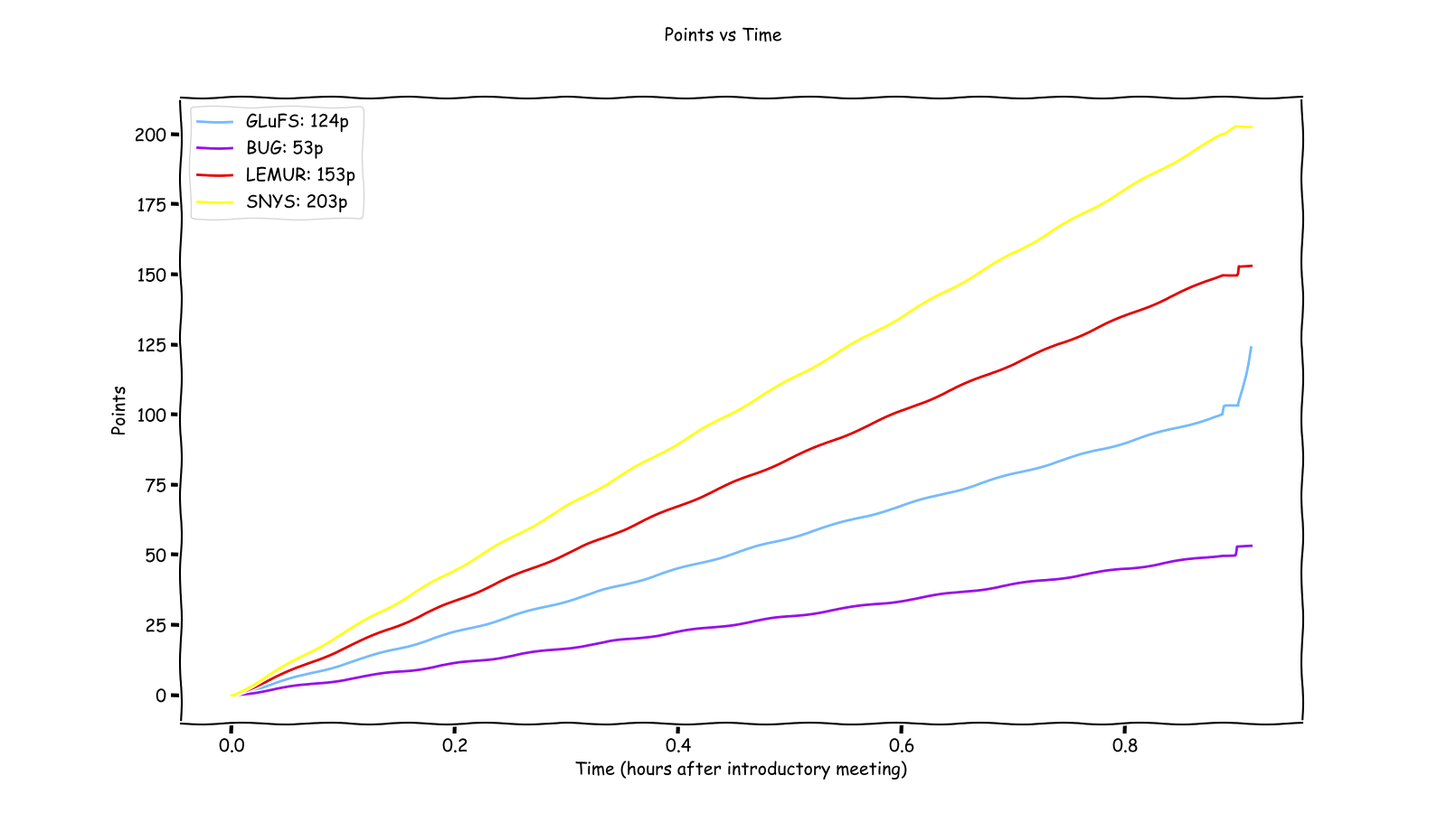
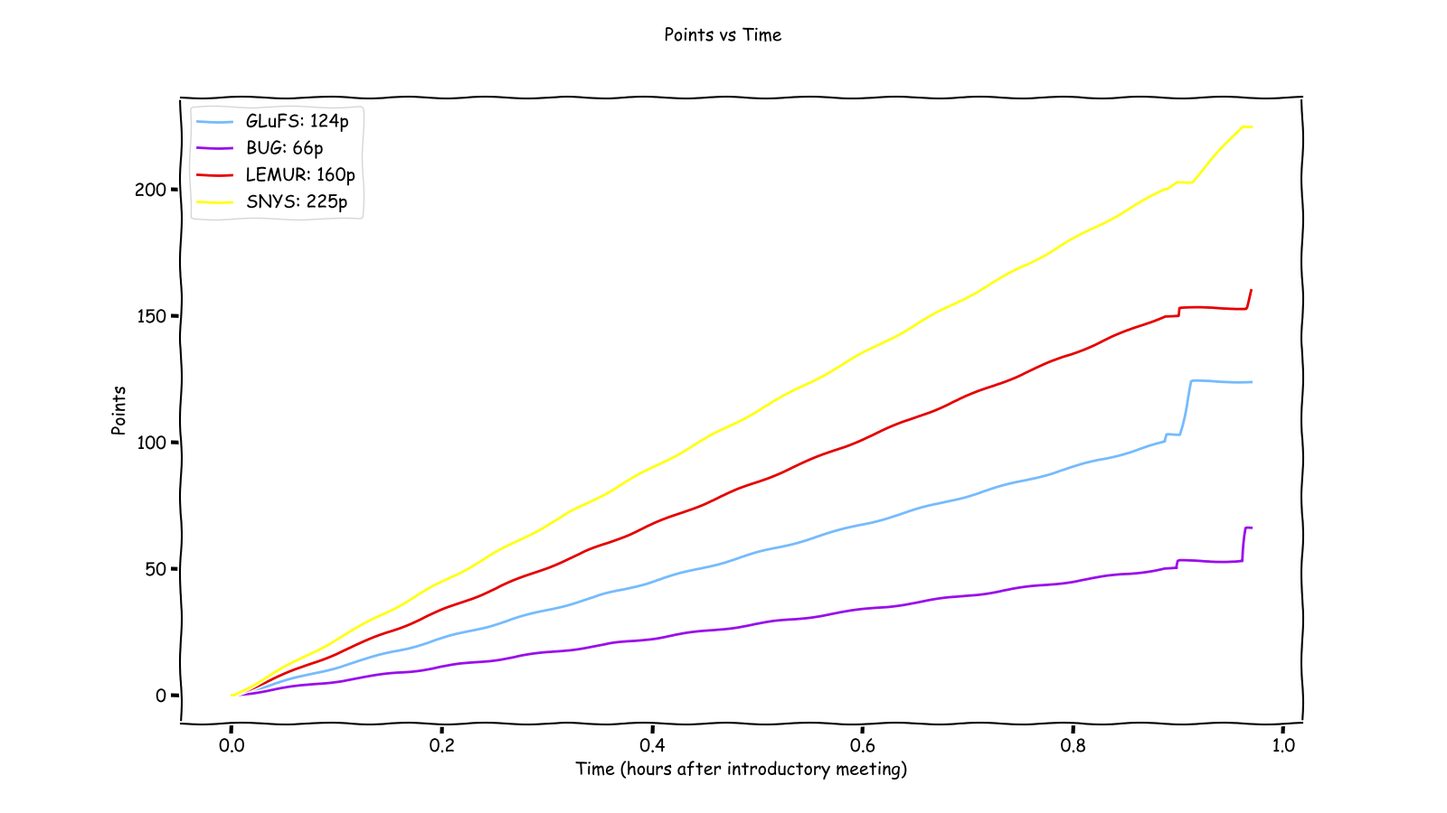
Auto-update: 2025-07-18 18:25

diff --git a/list.html b/list.html
@@ -1,1 +1,1 @@
-<p style="color: Black;"><strike>1: Juggle fruits! (3p per unique fruit) 1p</strike></p><p>2: Roll down a hill (1p per person)(3 hills max) 1p  ∞</p><p>3: Have a race up sankt hans backar (1p per person) 1p Performed by <span style="color: turquoise;"> GLuFS</p><p>4: Paint your nails in your student council colour (1p per person) 1p</p><p>5: "Recycle cans/bottles (panta) (1p for every 5th can  max points = 100) (Bonus when reaching max points )"p</p><p>6: Wear your lab coat to a lecture (1p per person) 1p  ∞</p><p>7: High Five with a pizza baker - (points for different pizza bakers) 2p  ∞</p><p>8: "Hug a counselor (kurator  nation or not) – (points after the number of counselors)"p</p><p>9: Bathe in a fountain - (points for different fountains) (Not Lundagård) 5p  ∞</p><p>10: Work out at the outdoor gym in winter clothing 5p</p><p>11: Perform a spex on Spexarevägen 5p</p><p>12: Bribe mentors with a cake 5p</p><p>13: Make posters for a non-existing course 5p</p><p>14: Be BFFs with a professor 5p</p><p>15: Take pictures of a student dormitory (points after how gross it looks) 5p</p><p>16: "If Finn exists  find Finn"p</p><p>17: Create a massive lab coat 5p</p><p>18: Fence with the bulls 5p</p><p>19: Forage for Potatoes 5p</p><p>20: Question middle school students about what is ''cool'' in school playgrounds in Lund today 5p</p><p>21: Build a human pyramid(1p per person) 1p</p><p>22: Sing a song to one of the full timers from the song book 5p</p><p>23: "Write ''Luna'' with new students  score after the size"p</p><p>24: Bug with a BUG. (Can not be performed by BUG) 5p</p><p>25: Pherform ''Physical'' physically with a physicist. (Can not be performed by GLuFS) 5p</p><p>26: Summon a demon with Lemur.. (Can not be performed by LEMUR) 5p</p><p>27: Bury a Gnome (as long as they get air). (Can not be performed by GNOMES) 5p</p><p>28: Adopt a pet rock 5p</p><p>29: Go sledding down Sölvegatan (Fysicum to Kalmar Nation) 5p</p><p>30: Obtain a saber (sabel) and acquire a horse 5p</p><p>31: Find the mountain troll at Trollebergsvägen 5p</p><p>32: Roundabout Rave! 5p</p><p>33: The cake is a lie! 5p</p><p>34: Borrow a weird book at UB 5p</p><p>35: Find a spanish bear 5p</p><p>36: Help a lady across the street 5p</p><p>37: Go where pepper grows 5p</p><p>38: Stand statue in the city park 5p</p><p>39: Skip rope with a giraffe 5p</p><p>40: Make a suuuuuper looooong (jäääääääääättelång) spoon 5p</p><p>41: "Play ''rock  paperp</p><p>42: "Solve a math problem(high difficulty!!)  in a sandbox"p</p><p>43: Play a kids show anthem on glass bottles 5p</p><p>44: Make a somersault to get inside Wermlands nation 5p</p><p>45: Prove that the high ground is superior 5p</p><p>46: Order a Royal with cheese 5p</p><p>47: Become a shooting star 5p</p><p>48: Find an old member of the Mentor Committee (GoDs) 5p</p><p>49: Perform photoception (the more the better) 5p</p><p>50: Pet cute cats 5p</p><p>51: Preach about the ”Santa religion” at Stortorget 5p</p><p>52: Eat tuna at Tunavägen 5p</p><p>53: Create a beautiful painting at Målarevägen 5p</p><p>54: Hang up your own painting in a museum 5p</p><p>55: Bake LUNA buns 5p</p><p>56: Find the building that changes colour 5p</p><p>57: Find the Student Health Centre (you don't have to book an appointment and don't bring the mascot inside) 5p</p><p>58: "Dance ringdance in Stortorget  Mårtenstorget and Clemenstorget! (Preferably simultaneously)"p</p><p>59: Consume sugar outside the sugar mill 5p</p><p>60: Drink the red drink from Shell (or Circle K) 5p</p><p>61: "Burn red houses  hit little children and say bad words (Notep</p><p>62: "Explore the faculty  find all student council rooms!"p</p><p>63: What is Jack Stauber really saying in Buttercup? 5p</p><p>64: Eat forbidden fruit in paradise 5p</p><p>65: Hold the door 5p</p><p>66: Spell out your team's name with new students 5p</p><p>67: Capture a Pokemon Gym with a Pokemon with your team's name 5p</p><p>68: Down raspberry soda in Halland hall. (Halsa hallonsoda i Hallands hall) 5p</p><p>69: Go super Saiyan!!! (extra points for high power levels) 5p</p><p>70: iGWqyYLerA+VcCk+7myGRkafucLrXdhcps9/YPg7uw1ycBJozbB9ndW9pvCTz623V84et6jDkAjfV9VGQTkj+Q== 5p</p><p>71: Stay the night at a nation dormitory - (score after the number of different nations) 5p  ∞</p><p>72: Show Lasse your best impression of Poseidon in Göteborg 5p</p><p>73: Write a poem about Maites cat with his full name in it 5p</p><p>74: Give Nea the best vegetarian protein money can buy 5p</p><p>75:  5p</p><p>76:  5p</p><p>77:  5p</p><p>78: "Sing karaoke with the safety person (the song has to have the word ""safe"" in it!)" 5p</p><p>79: Do a tiktok dance to TiK ToK in front of a clock 5p</p><p>80: Offer someone an egg in this trying time 5p</p><p>81: Find true love 5p</p><p>82: Spot a cryptid 5p</p><p>83: Badly describe your favourite movie 5p</p><p>84: "Be an adventurer  and then take an arrow to the knee"p</p><p>85: Chubby bunny with something other than marshmellows 5p</p><p>86: Assemble the avengers 5p</p><p>87: Interpret your horoscope literally for a day 5p</p><p>88: Convince a stranger that today is Friday (Can't be done on a Friday) 5p</p><p>89: Become a Disney princess 5p</p><p>90: Show off the best party trick 5p</p><p>91: Have an incredible dance-off 5p</p><p>92: "Say the longest  most complicated tounge twister as fast as possible"p</p><p>93: Find something forgotten 5p</p><p>94: Serenade a stranger 5p</p><p>95: Celebrate a national day from nationaltoday.com 5p</p><p>96: Draw the chemical structure of Maiotoxin on a blackboard 5p</p><p>97: Discover a new element 5p</p><p>98: Take a selfie with the other teams mascot (no stealing!) 5p</p><p>99: Trade up 5p</p><p>100: Draw fanart of your mentors 5p</p><p>101: Show us how you would react when something is ”orimligt” 5p</p><p>102: Do something mediocre 5p</p><p>103: Dance battle a dinosaur 5p</p><p>104: Make us go ugh/eww/wow 5p</p><p>105: Do a conga line in the stadspark 5p</p><p>106: Eat the domkyrka 5p</p><p>107: Kiss a kub kung 5p</p><p>108: Eat the best lunda falafel 5p</p><p>109: Stand on two hands and sing your student council chant 5p</p><p>110: Put some lipstick on a statue / pimp a statue 5p</p><p>111: Find your student council room and make a cup of tea 5p</p><p>112: Take a selfie with the LUNA president 5p</p><p>113: Take a selfie with the LUNA vice president 5p</p><p>114: Take a selfie with the LUNA HCR 5p</p><p>115: Make up a sport and get outsiders to participate and compete. (At least 3 people must attend) 10p</p><p>116: Raise your team's flag in a flagpole - (points for various flagpoles) 10p  ∞</p><p>117: "Bring your mascot to the lecture  it needs one!"p</p><p>118: Eat brunch at the lecture 10p</p><p>119: Travel back to the future 10p</p><p>120: Explore the Underworld (Say hi to Hades) 10p</p><p>121: Explore Heaven (Say hi to Zeus) 10p</p><p>122: Find one from Gotland. (Has to be proven. Can't be part of your team!) 10p</p><p>123: Organise a flash mob 10p</p><p>124: Re-Construct the game show ''Hur gör djur?'' 10p</p><p>125: Take a selfie with your flag + mascot in front of a student nation! (Score after the number of nations) 10p  ∞</p><p>126: Reform the legendary bird army 10p</p><p>127: Film a 30 second promotional video for a course together with a lecturer 10p</p><p>128: HARDCORE PARKOUR! 10p</p><p>129: Snorkel in the fountain. (Score after the number of fountains) (Not Lundagård) 10p  ∞</p><p>130: Play a game with other student councils 10p</p><p>131: Build something related your theme in LEGO 10p</p><p>132: Have a super fancy dinner in a park 10p</p><p>133: Submit a fan mail to a lesser known artist. (Must answer in order to get points.) 10p</p><p>134: Synchronized berry picking as sport 10p</p><p>135: Find the most inventive way to use a potato 10p</p><p>136: Create and perform the ”Novischdance” 10p</p><p>137: Make a round pizza box with a square pizza in it 10p</p><p>138: Where is the country where you bend the bananas? 10p</p><p>139: Find a valid train from Lund to the eternal leader's country 10p</p><p>140: Wear formal wear during a lecture 10p</p><p>141: Bring back dabbing 10p</p><p>142: Arrange a medieval jousting tournament on Tornavägen 10p</p><p>143: Create a Voi-squad (at least 4 people) 10p</p><p>144: Fight fire with fire 10p</p><p>145: Develop all four elements 10p</p><p>146: Find something in Lake-lake and sell it 10p</p><p>147: Sell lemonade to a duck (do not harm ducks!) 10p</p><p>148: Make a sacrifice to Anders And 10p</p><p>149: Oh no! The boat is sinking and the rations are getting soaked! What should you do? 10p</p><p>150: Perform a psychological experiment (on a psychology student) 10p</p><p>151: Find a philosopher and bombard them with all sorts of paradoxes until they intend to engage in violence on you personally 10p</p><p>152: Hold a lecture at EC 10p</p><p>153: Wear all 6 different kinds of lab coats at once 10p</p><p>154: Does Uppsala exist? 10p</p><p>155: Hang a (large) student council-poster on the outside of the castle 10p</p><p>156: Perform ''Härjarevisan'' to an audience not from Lund 10p</p><p>157: Play chess with death at SOL 10p</p><p>158: Have sing-together in a supermarket! (Get at least 5 non-members to sing) 10p</p><p>159: Take the trolley through the Drive Through at McDonalds 10p</p><p>160: Find someone called Knut and tie him to Knut ''den stores torg'' 10p</p><p>161: Create a petition to banish a harmless substance (minimum 30 signatures) 10p</p><p>162: Rename ''Systembolaget'' to ''Spritbolaget'' 10p</p><p>163: Yodel in a store 10p</p><p>164: Play a known scene from a drama to the public 10p</p><p>165: Equip the world with hipster glasses 10p</p><p>166: Make a Pan Galactic Gargle Blaster 10p</p><p>167: Fight the pollen!  10p</p><p>168: Rant for 5 minutes about something completely meaningless 10p</p><p>169: Make a trailer film for your student council(s). (At least 2 minutes) 10p</p><p>170: Have song duel with another team at Sjön Sjön (both teams will get points) 10p</p><p>171: Stay the night outside the lecture hall (OBS! Not inside a university building) 10p</p><p>172: Build any university building from lollipops 10p</p><p>173: Assassinate the LUNA president/ vice president during office hours 10p</p><p>174: Re-create a historical process with your lecturer 10p</p><p>175: Be a youtube celebrity (minimum 302 views) must be from the novisch period 10p</p><p>176: Run a Marathon-race 10p</p><p>177: Recreate a Disney movie in 30 seconds 10p</p><p>178: Take the subway between the Maths building and the Maths Annex (There is an actual tunnel going between the two buildings that you have to find) 10p</p><p>179: Have a sittning sittning (amount studentity* rewarded) * (student identity - a way of measuring how much of a student you are) 10p</p><p>180: "With one foot in Småland (Please note  not the nationp</p><p>181: Accelerate by the accelerator 10p</p><p>182: Perform Lunas Anthem 10p</p><p>183: Successfully host a Geologist Agility Contest (Rock Agility) 10p</p><p>184: Find a way to bring the witches back from Blåkulla 10p</p><p>185: Stand quarter past at the ”quarter-past-meridian” 10p</p><p>186: Discover the secrets of Area 51 10p</p><p>187: Give FU Dijon mustard 10p</p><p>188: Become an influencer 10p</p><p>189: Scientifically prove a conspiracy theory 10p</p><p>190: Hold a powerpoint presentation about your very unusual thesis 10p</p><p>191: Get your team to the top ten most liked pictures with #studyingscienceinlund on instagram 10p</p><p>192: "Eat a banana at bananparken  a pear at päronvägens lekplatsp</p><p>193: Find the infinity stones and make all things as they should be 10p</p><p>194: Write a love letter to LUNA 10p</p><p>195: Have an elevator picnic! 10p</p><p>196: Drive the alligators out of Skåne 10p</p><p>197: Find a GoD and give them cheese 10p</p><p>198: "Recreate the ""running through doors"" scenes from Scooby-Doo" 10p</p><p>199: "Dance ""små grodorna"" around strangers" 10p</p><p>200: "Go to the ""spritbolag"" with a fake beard" 10p</p><p>201: Make a wanted poster of someone in FU 10p  ∞</p><p>202: Make propaganda posters for your student council 10p</p><p>203: Wear an ice cream like a hat 10p</p><p>204: Battle your mentors in bear pong 10p</p><p>205: Make a song about LUNA or FU and sing it at the Central station 10p</p><p>206: Celebrate someone's birthday at a sittning or event 10p</p><p>207: Make the dark night rise 10p</p><p>208: Take a picture in a fountain like friends 10p</p><p>209: Sing stad i ljus at a club 10p</p><p>210: Take a picture with all the fulltimers in the same picture 10p</p><p>211: Create sculptures of the generals  15p</p><p>212: Travel abroad with the Skåne flag (bonus points if it is not Denmark) 15p</p><p>213: Create and host a DnD adventure with LUNA as a main part of it 15p</p><p>214: Become a meme 15p</p><p>215: Flip a coin forever 15p</p><p>216: Break the 4th wall 15p</p><p>217: "Walk along the tram track from Lund C to ESS (each stop is required) (not ON the track  stay safe)"p</p><p>218: Give a board to every member of the LUNA board (points only if you find them all) 15p</p><p>219: Make an (alcohol free) drink worthy of FU 15p</p><p>220: Perform miracles 15p</p><p>221: Publish a scientific article during the novisch period 15p</p><p>222: Freshen up Lake-lake 15p</p><p>223: "Ask a scientific question to a relevant faculty employee  that you can solvep</p><p>224: Meow in front of the vice-dean 15p</p><p>225: Create a tradition 15p</p><p>226: Find a doppelganger to each person in FU 15p</p><p>227: Get witnessed 15p</p><p>228: Book a reservation at McDonalds 15p</p><p>229: Design a new patch! (CC the email to naringsliv@luna.lu.se ) 15p</p><p>230: Find food which is older than the food FU have in their tailcoats 15p</p><p>231: Translate a full sentence of Toki pona 15p</p><p>232:  15p</p><p>233:  15p</p>
+<p style="color: Black;"><strike>1: Juggle fruits! (3p per unique fruit) 1p</strike></p><p>2: Roll down a hill (1p per person)(3 hills max) 1p  ∞</p><p>3: Have a race up sankt hans backar (1p per person) 1p Performed by <span style="color: turquoise;"> GLuFS<span style="color: yellow;"> SNYS<span style="color: purple;"> BUG</p><p>4: Paint your nails in your student council colour (1p per person) 1p</p><p>5: "Recycle cans/bottles (panta) (1p for every 5th can  max points = 100) (Bonus when reaching max points )"p</p><p>6: Wear your lab coat to a lecture (1p per person) 1p  ∞</p><p>7: High Five with a pizza baker - (points for different pizza bakers) 2p  ∞</p><p>8: "Hug a counselor (kurator  nation or not) – (points after the number of counselors)"p</p><p>9: Bathe in a fountain - (points for different fountains) (Not Lundagård) 5p  ∞</p><p>10: Work out at the outdoor gym in winter clothing 5p Performed by <span style="color: red;"> Lemur</p><p>11: Perform a spex on Spexarevägen 5p</p><p>12: Bribe mentors with a cake 5p</p><p>13: Make posters for a non-existing course 5p</p><p>14: Be BFFs with a professor 5p</p><p>15: Take pictures of a student dormitory (points after how gross it looks) 5p</p><p>16: "If Finn exists  find Finn"p</p><p>17: Create a massive lab coat 5p</p><p>18: Fence with the bulls 5p</p><p>19: Forage for Potatoes 5p</p><p>20: Question middle school students about what is ''cool'' in school playgrounds in Lund today 5p</p><p>21: Build a human pyramid(1p per person) 1p</p><p>22: Sing a song to one of the full timers from the song book 5p</p><p>23: "Write ''Luna'' with new students  score after the size"p</p><p>24: Bug with a BUG. (Can not be performed by BUG) 5p</p><p>25: Pherform ''Physical'' physically with a physicist. (Can not be performed by GLuFS) 5p</p><p>26: Summon a demon with Lemur.. (Can not be performed by LEMUR) 5p</p><p>27: Bury a Gnome (as long as they get air). (Can not be performed by GNOMES) 5p</p><p>28: Adopt a pet rock 5p</p><p>29: Go sledding down Sölvegatan (Fysicum to Kalmar Nation) 5p</p><p>30: Obtain a saber (sabel) and acquire a horse 5p</p><p>31: Find the mountain troll at Trollebergsvägen 5p</p><p>32: Roundabout Rave! 5p</p><p>33: The cake is a lie! 5p</p><p>34: Borrow a weird book at UB 5p</p><p>35: Find a spanish bear 5p</p><p>36: Help a lady across the street 5p</p><p>37: Go where pepper grows 5p</p><p>38: Stand statue in the city park 5p</p><p>39: Skip rope with a giraffe 5p</p><p>40: Make a suuuuuper looooong (jäääääääääättelång) spoon 5p</p><p>41: "Play ''rock  paperp</p><p>42: "Solve a math problem(high difficulty!!)  in a sandbox"p</p><p>43: Play a kids show anthem on glass bottles 5p</p><p>44: Make a somersault to get inside Wermlands nation 5p</p><p>45: Prove that the high ground is superior 5p</p><p>46: Order a Royal with cheese 5p</p><p>47: Become a shooting star 5p</p><p>48: Find an old member of the Mentor Committee (GoDs) 5p</p><p>49: Perform photoception (the more the better) 5p</p><p>50: Pet cute cats 5p</p><p>51: Preach about the ”Santa religion” at Stortorget 5p</p><p>52: Eat tuna at Tunavägen 5p</p><p>53: Create a beautiful painting at Målarevägen 5p</p><p>54: Hang up your own painting in a museum 5p</p><p>55: Bake LUNA buns 5p</p><p>56: Find the building that changes colour 5p</p><p>57: Find the Student Health Centre (you don't have to book an appointment and don't bring the mascot inside) 5p</p><p>58: "Dance ringdance in Stortorget  Mårtenstorget and Clemenstorget! (Preferably simultaneously)"p</p><p>59: Consume sugar outside the sugar mill 5p</p><p>60: Drink the red drink from Shell (or Circle K) 5p</p><p>61: "Burn red houses  hit little children and say bad words (Notep</p><p>62: "Explore the faculty  find all student council rooms!"p</p><p>63: What is Jack Stauber really saying in Buttercup? 5p</p><p>64: Eat forbidden fruit in paradise 5p</p><p>65: Hold the door 5p</p><p>66: Spell out your team's name with new students 5p</p><p>67: Capture a Pokemon Gym with a Pokemon with your team's name 5p</p><p>68: Down raspberry soda in Halland hall. (Halsa hallonsoda i Hallands hall) 5p</p><p>69: Go super Saiyan!!! (extra points for high power levels) 5p</p><p>70: iGWqyYLerA+VcCk+7myGRkafucLrXdhcps9/YPg7uw1ycBJozbB9ndW9pvCTz623V84et6jDkAjfV9VGQTkj+Q== 5p</p><p>71: Stay the night at a nation dormitory - (score after the number of different nations) 5p  ∞</p><p>72: Show Lasse your best impression of Poseidon in Göteborg 5p</p><p>73: Write a poem about Maites cat with his full name in it 5p</p><p>74: Give Nea the best vegetarian protein money can buy 5p</p><p>75:  5p</p><p>76:  5p</p><p>77:  5p</p><p>78: "Sing karaoke with the safety person (the song has to have the word ""safe"" in it!)" 5p</p><p>79: Do a tiktok dance to TiK ToK in front of a clock 5p</p><p>80: Offer someone an egg in this trying time 5p</p><p>81: Find true love 5p</p><p>82: Spot a cryptid 5p</p><p>83: Badly describe your favourite movie 5p</p><p>84: "Be an adventurer  and then take an arrow to the knee"p</p><p>85: Chubby bunny with something other than marshmellows 5p</p><p>86: Assemble the avengers 5p</p><p>87: Interpret your horoscope literally for a day 5p</p><p>88: Convince a stranger that today is Friday (Can't be done on a Friday) 5p</p><p>89: Become a Disney princess 5p</p><p>90: Show off the best party trick 5p</p><p>91: Have an incredible dance-off 5p</p><p>92: "Say the longest  most complicated tounge twister as fast as possible"p</p><p>93: Find something forgotten 5p</p><p>94: Serenade a stranger 5p</p><p>95: Celebrate a national day from nationaltoday.com 5p</p><p>96: Draw the chemical structure of Maiotoxin on a blackboard 5p</p><p>97: Discover a new element 5p</p><p>98: Take a selfie with the other teams mascot (no stealing!) 5p</p><p>99: Trade up 5p</p><p>100: Draw fanart of your mentors 5p</p><p>101: Show us how you would react when something is ”orimligt” 5p</p><p>102: Do something mediocre 5p</p><p>103: Dance battle a dinosaur 5p</p><p>104: Make us go ugh/eww/wow 5p</p><p>105: Do a conga line in the stadspark 5p</p><p>106: Eat the domkyrka 5p</p><p>107: Kiss a kub kung 5p</p><p>108: Eat the best lunda falafel 5p</p><p>109: Stand on two hands and sing your student council chant 5p</p><p>110: Put some lipstick on a statue / pimp a statue 5p</p><p>111: Find your student council room and make a cup of tea 5p</p><p>112: Take a selfie with the LUNA president 5p</p><p>113: Take a selfie with the LUNA vice president 5p</p><p>114: Take a selfie with the LUNA HCR 5p</p><p>115: Make up a sport and get outsiders to participate and compete. (At least 3 people must attend) 10p</p><p>116: Raise your team's flag in a flagpole - (points for various flagpoles) 10p  ∞</p><p>117: "Bring your mascot to the lecture  it needs one!"p</p><p>118: Eat brunch at the lecture 10p</p><p>119: Travel back to the future 10p</p><p>120: Explore the Underworld (Say hi to Hades) 10p</p><p>121: Explore Heaven (Say hi to Zeus) 10p</p><p>122: Find one from Gotland. (Has to be proven. Can't be part of your team!) 10p</p><p>123: Organise a flash mob 10p</p><p>124: Re-Construct the game show ''Hur gör djur?'' 10p</p><p>125: Take a selfie with your flag + mascot in front of a student nation! (Score after the number of nations) 10p  ∞</p><p>126: Reform the legendary bird army 10p</p><p>127: Film a 30 second promotional video for a course together with a lecturer 10p</p><p>128: HARDCORE PARKOUR! 10p</p><p>129: Snorkel in the fountain. (Score after the number of fountains) (Not Lundagård) 10p  ∞</p><p>130: Play a game with other student councils 10p</p><p>131: Build something related your theme in LEGO 10p</p><p>132: Have a super fancy dinner in a park 10p</p><p>133: Submit a fan mail to a lesser known artist. (Must answer in order to get points.) 10p</p><p>134: Synchronized berry picking as sport 10p</p><p>135: Find the most inventive way to use a potato 10p</p><p>136: Create and perform the ”Novischdance” 10p</p><p>137: Make a round pizza box with a square pizza in it 10p</p><p>138: Where is the country where you bend the bananas? 10p</p><p>139: Find a valid train from Lund to the eternal leader's country 10p</p><p>140: Wear formal wear during a lecture 10p</p><p>141: Bring back dabbing 10p</p><p>142: Arrange a medieval jousting tournament on Tornavägen 10p</p><p>143: Create a Voi-squad (at least 4 people) 10p</p><p>144: Fight fire with fire 10p</p><p>145: Develop all four elements 10p</p><p>146: Find something in Lake-lake and sell it 10p</p><p>147: Sell lemonade to a duck (do not harm ducks!) 10p</p><p>148: Make a sacrifice to Anders And 10p</p><p>149: Oh no! The boat is sinking and the rations are getting soaked! What should you do? 10p</p><p>150: Perform a psychological experiment (on a psychology student) 10p</p><p>151: Find a philosopher and bombard them with all sorts of paradoxes until they intend to engage in violence on you personally 10p</p><p>152: Hold a lecture at EC 10p</p><p>153: Wear all 6 different kinds of lab coats at once 10p</p><p>154: Does Uppsala exist? 10p</p><p>155: Hang a (large) student council-poster on the outside of the castle 10p</p><p>156: Perform ''Härjarevisan'' to an audience not from Lund 10p</p><p>157: Play chess with death at SOL 10p</p><p>158: Have sing-together in a supermarket! (Get at least 5 non-members to sing) 10p</p><p>159: Take the trolley through the Drive Through at McDonalds 10p</p><p>160: Find someone called Knut and tie him to Knut ''den stores torg'' 10p</p><p>161: Create a petition to banish a harmless substance (minimum 30 signatures) 10p</p><p>162: Rename ''Systembolaget'' to ''Spritbolaget'' 10p</p><p>163: Yodel in a store 10p</p><p>164: Play a known scene from a drama to the public 10p</p><p>165: Equip the world with hipster glasses 10p</p><p>166: Make a Pan Galactic Gargle Blaster 10p</p><p>167: Fight the pollen!  10p</p><p>168: Rant for 5 minutes about something completely meaningless 10p</p><p>169: Make a trailer film for your student council(s). (At least 2 minutes) 10p</p><p>170: Have song duel with another team at Sjön Sjön (both teams will get points) 10p</p><p>171: Stay the night outside the lecture hall (OBS! Not inside a university building) 10p</p><p>172: Build any university building from lollipops 10p</p><p>173: Assassinate the LUNA president/ vice president during office hours 10p</p><p>174: Re-create a historical process with your lecturer 10p</p><p>175: Be a youtube celebrity (minimum 302 views) must be from the novisch period 10p</p><p>176: Run a Marathon-race 10p</p><p>177: Recreate a Disney movie in 30 seconds 10p</p><p>178: Take the subway between the Maths building and the Maths Annex (There is an actual tunnel going between the two buildings that you have to find) 10p</p><p>179: Have a sittning sittning (amount studentity* rewarded) * (student identity - a way of measuring how much of a student you are) 10p</p><p>180: "With one foot in Småland (Please note  not the nationp</p><p>181: Accelerate by the accelerator 10p</p><p>182: Perform Lunas Anthem 10p</p><p>183: Successfully host a Geologist Agility Contest (Rock Agility) 10p</p><p>184: Find a way to bring the witches back from Blåkulla 10p</p><p>185: Stand quarter past at the ”quarter-past-meridian” 10p</p><p>186: Discover the secrets of Area 51 10p</p><p>187: Give FU Dijon mustard 10p</p><p>188: Become an influencer 10p</p><p>189: Scientifically prove a conspiracy theory 10p</p><p>190: Hold a powerpoint presentation about your very unusual thesis 10p</p><p>191: Get your team to the top ten most liked pictures with #studyingscienceinlund on instagram 10p</p><p>192: "Eat a banana at bananparken  a pear at päronvägens lekplatsp</p><p>193: Find the infinity stones and make all things as they should be 10p</p><p>194: Write a love letter to LUNA 10p</p><p>195: Have an elevator picnic! 10p</p><p>196: Drive the alligators out of Skåne 10p</p><p>197: Find a GoD and give them cheese 10p</p><p>198: "Recreate the ""running through doors"" scenes from Scooby-Doo" 10p</p><p>199: "Dance ""små grodorna"" around strangers" 10p</p><p>200: "Go to the ""spritbolag"" with a fake beard" 10p</p><p>201: Make a wanted poster of someone in FU 10p  ∞</p><p>202: Make propaganda posters for your student council 10p</p><p>203: Wear an ice cream like a hat 10p</p><p>204: Battle your mentors in bear pong 10p</p><p>205: Make a song about LUNA or FU and sing it at the Central station 10p</p><p>206: Celebrate someone's birthday at a sittning or event 10p</p><p>207: Make the dark night rise 10p</p><p>208: Take a picture in a fountain like friends 10p</p><p>209: Sing stad i ljus at a club 10p</p><p>210: Take a picture with all the fulltimers in the same picture 10p</p><p>211: Create sculptures of the generals  15p</p><p>212: Travel abroad with the Skåne flag (bonus points if it is not Denmark) 15p</p><p>213: Create and host a DnD adventure with LUNA as a main part of it 15p</p><p>214: Become a meme 15p</p><p>215: Flip a coin forever 15p</p><p>216: Break the 4th wall 15p</p><p>217: "Walk along the tram track from Lund C to ESS (each stop is required) (not ON the track  stay safe)"p</p><p>218: Give a board to every member of the LUNA board (points only if you find them all) 15p</p><p>219: Make an (alcohol free) drink worthy of FU 15p</p><p>220: Perform miracles 15p</p><p>221: Publish a scientific article during the novisch period 15p</p><p>222: Freshen up Lake-lake 15p</p><p>223: "Ask a scientific question to a relevant faculty employee  that you can solvep</p><p>224: Meow in front of the vice-dean 15p</p><p>225: Create a tradition 15p</p><p>226: Find a doppelganger to each person in FU 15p</p><p>227: Get witnessed 15p</p><p>228: Book a reservation at McDonalds 15p</p><p>229: Design a new patch! (CC the email to naringsliv@luna.lu.se ) 15p</p><p>230: Find food which is older than the food FU have in their tailcoats 15p</p><p>231: Translate a full sentence of Toki pona 15p</p><p>232:  15p</p><p>233:  15p</p>
